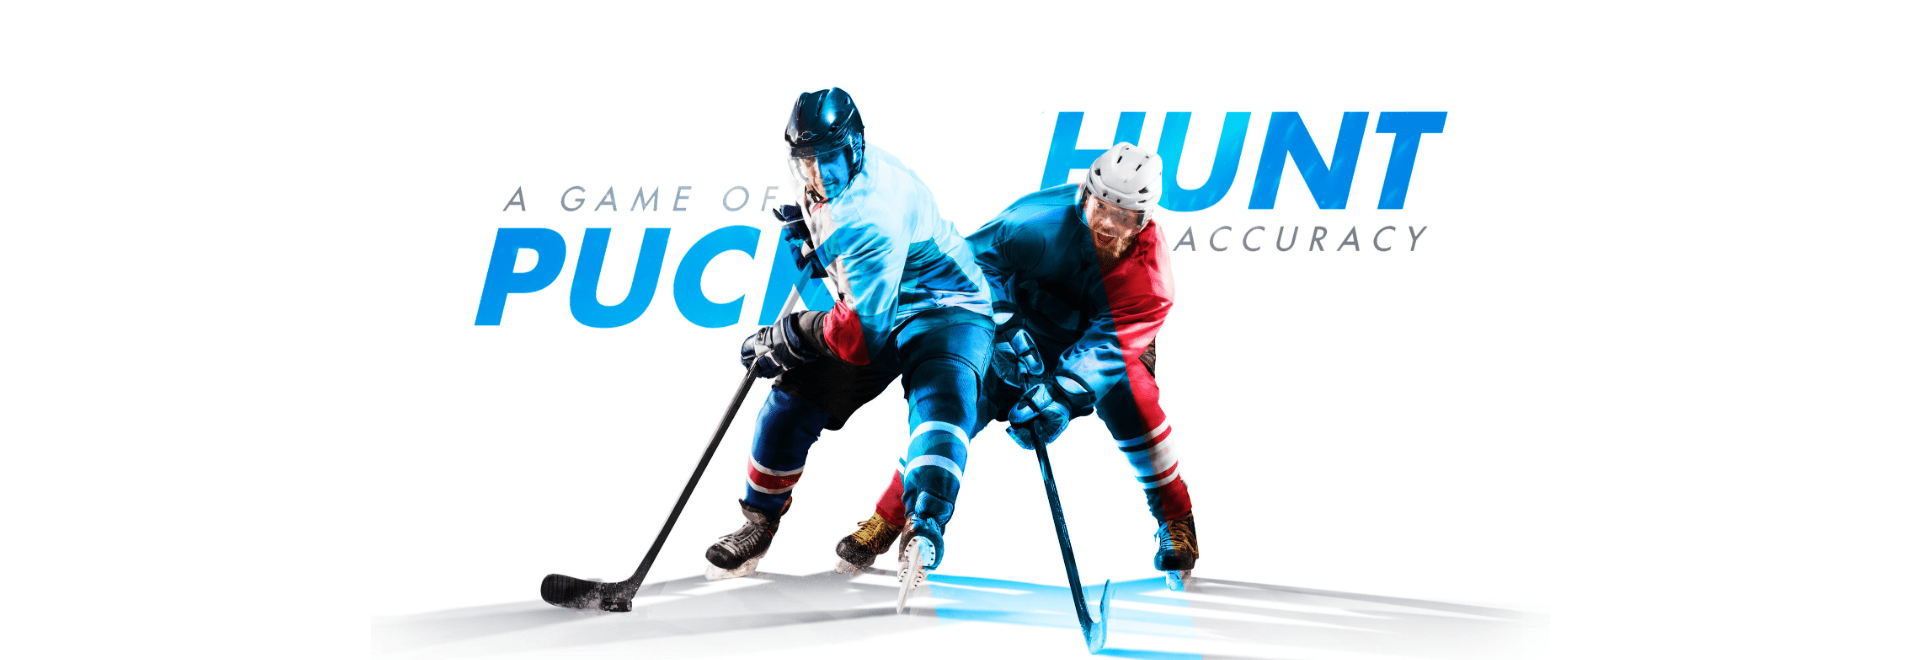
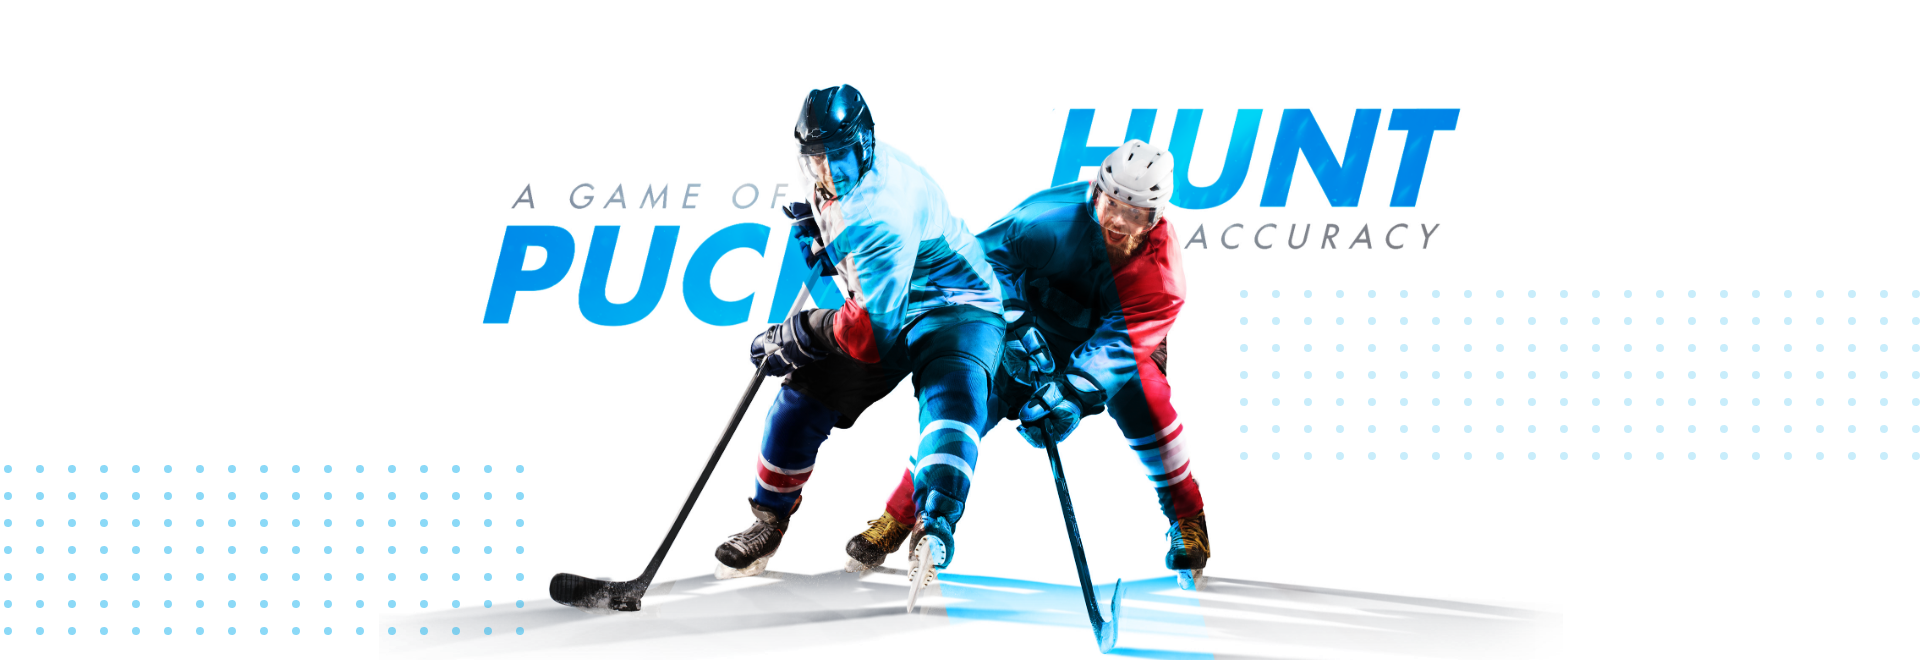
hot fixes

Changed region(s): [[0.25, 0.1212, 0.7812, 1.0]]

diff --git a/src/app/pages/invite/componets/invite-new/invite-new.component.html b/src/app/pages/invite/componets/invite-new/invite-new.component.html
@@ -144,7 +144,7 @@
         <div 
         style="background: url(../../../../../assets/images/260.png) no-repeat;"
         class="block1">
-          <div 
+          <!-- <div 
           style="
               padding: 0;
               max-width: 320px;
@@ -170,7 +170,7 @@
           class="dots-block2"
           >
             <div class="ellipse-1" *ngFor="let dot of dotsBlock2"></div>
-          </div>
+          </div> -->
           <div class="hover1">
             <div class="hover2">
               <button type="button" (click)="toggleExpansion(true, 0)">
@@ -184,7 +184,7 @@
         <div 
         style="background: url(../../../../../assets/images/banner2.png) no-repeat;"
         class="block1">
-          <div 
+          <!-- <div 
             style="
                 max-width: 110px;
                 display: flex;
@@ -208,7 +208,7 @@
             class="dots-block2"
           >
             <div class="ellipse-1" *ngFor="let dot of dotsBlock2"></div>
-          </div>
+          </div> -->
           <div 
           style="
               top: 20% !important;
@@ -228,7 +228,7 @@
         <div 
         style="background: url(../../../../../assets/images/banner3.png) no-repeat;"
         class="block1">
-          <div 
+          <!-- <div 
             style="
                 max-width: 110px;
                 display: flex;
@@ -252,7 +252,7 @@
             class="dots-block2"
           >
             <div class="ellipse-1" *ngFor="let dot of dotsBlock2"></div>
-          </div>
+          </div> -->
           <div 
           style="
           top: 56% !important;
@@ -272,7 +272,7 @@
         <div 
         style="background: url(../../../../../assets/images/banner4.png) no-repeat;"
         class="block1">
-          <div 
+          <!-- <div 
             style="
                 max-width: 110px;
                 display: flex;
@@ -296,7 +296,7 @@
             class="dots-block2"
           >
             <div class="ellipse-1" *ngFor="let dot of dotsBlock2"></div>
-          </div>
+          </div> -->
           <div 
           style="
           top: 41% !important;

diff --git a/src/app/pages/invite/componets/invite-new/invite-new.component.ts b/src/app/pages/invite/componets/invite-new/invite-new.component.ts
@@ -95,8 +95,6 @@ export class InviteNewComponent implements OnInit {
   }
 
   ngOnInit() {
-    this.fillDotsBlocks(this.dotsBlock1, 88);
-    this.fillDotsBlocks(this.dotsBlock2, 187);
     this.fillDotsBlocks(this.dotsBlock3, 93);
     this.fillDotsBlocks(this.dotsBlock4, 44);
     this._createForm();
